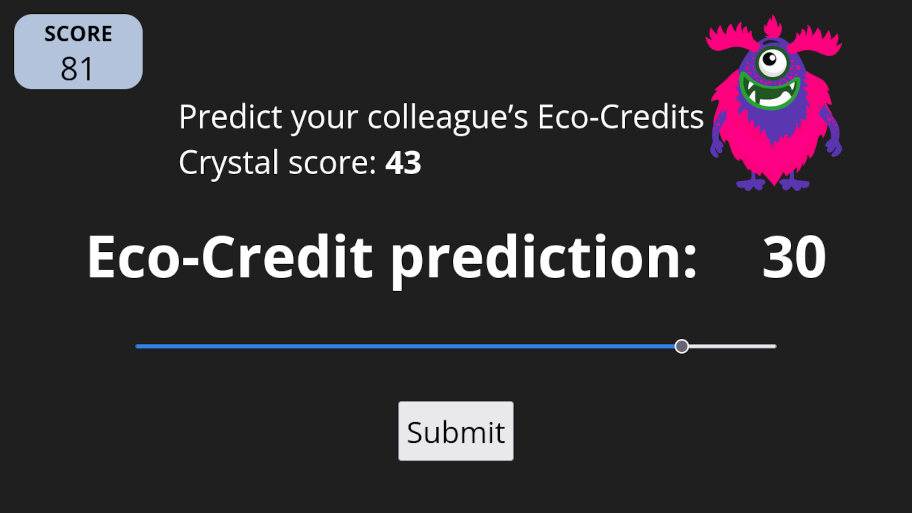
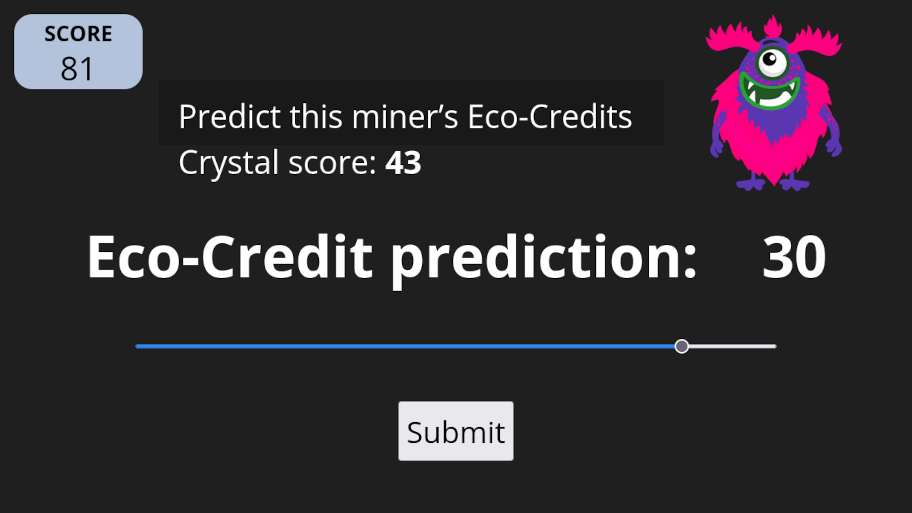
Completed predictor's task except for data reading

Changed region(s): [[0.2149, 0.1871, 0.7675, 0.2807]]

diff --git a/betting/index.html b/betting/index.html
@@ -31,8 +31,8 @@
   </div>
   <ol id="tutorial-instructions" class="instructions">
     <li class="expscreen">
-      <p><strong>IMPORTANT:</strong> To quit the experiment, press ESC. If you quit the experiment before it’s over, you
-        won’t get paid, so be careful.</p>
+      <p><strong>IMPORTANT:</strong> To quit the experiment, press ESC. If you quit the experiment before it’s over, we will lose your data,
+        so be careful.</p>
       <p>Thank you for participating in this experiment about how people make decisions. You’ll help with
         our research and get a score depending on your performance. If you pay attention and do your
         best, you’ll get a much higher score.</p>
@@ -136,40 +136,20 @@
   <ol id="game-instructions" class="instructions">
     <li class="expscreen">
       <p>You have finished the quiz. Well done! Next, you’ll play the game for <span class="constant NUM_TRIALS"></span> rounds.
-        Each round corresponds to a
-        working day in the game storyline. At the beginning of each round, you’ll fly to planet Zyxlon.
-        This will happen automatically. You don’t have to do anything.</p>
-      <img src="/crystalmining/betting/img/sky_planet.png" width="912" height="513" alt="" class="instructions_illustration">
-      <img src="/crystalmining/betting/img/spaceship_flying.png" width="912" height="513" alt="" class="instructions_illustration">
-    </li>
-    <li class="expscreen">
-      <p>Then you will choose whether to collect or discard five crystals, just like you practised earlier. Before you
-        choose to collect or discard the fifth crystal, you’ll be asked to predict your Eco-Credits.</p>
-      <img src="/crystalmining/betting/img/own_prediction.png" width="912" height="513" alt="" class="instructions_illustration">
-    </li>
-    <li class="expscreen">
-      <p>Use the information on the fifth crystal to determine your final crystal score for the day if you choose to collect or discard it, as this final score affects the Eco-Credits you’ll receive.</p>
-      <img src="/crystalmining/betting/img/own_prediction.png" width="912" height="513" alt="" class="instructions_illustration">
-    </li>
-    <li class="expscreen">
-      <p>Predicting your Eco-Credits is a required part of the study, and you can also earn up to 10 points for your prediction, so put your best guess forward.</p>
-      <img src="/crystalmining/betting/img/own_prediction_results.png" width="912" height="513" alt="" class="instructions_illustration">
-    </li>
-    <li class="expscreen">
-      <p>Afterwards, you’ll find out how many Eco-Credits the Auditor has decided to give you.</p>
-      <img src="/crystalmining/betting/img/ecocrd.png" width="912" height="513" alt="" class="instructions_illustration">
-    </li>
-    <li class="expscreen">
-      <p>Next, you can earn up to 10 points for predicting a colleague’s Eco-Credits based on their crystal
-        collection. This is also a required part of the study.</p>
+        Each round corresponds to an Eco-Credits prediction</p>
+        <img src="/crystalmining/betting/img/colleague_prediction.png" width="912" height="513" alt="" class="instructions_illustration">
+      </li>
+      <li class="expscreen">
+      <p>You can earn up to 10 points for predicting a miner’s Eco-Credits based on their crystal
+        score.</p>
         <img src="/crystalmining/betting/img/colleague_prediction.png" width="912" height="513" alt="" class="instructions_illustration">
     </li>
     <li class="expscreen">
-      <p>Remember that, in general, the more crystal points you collect, the fewer Eco-Credits you will receive.</p>
+      <p>Remember that, in general, the more crystal points a miner collects, the fewer Eco-Credits they will receive.</p>
       <img src="/crystalmining/betting/img/auditor.png" width="912" height="513" alt="" class="instructions_illustration">
     </li>
     <li class="expscreen">
-      <p>However, remember that the Auditor can be somewhat unpredictable and might increase or decrease your Eco-Credits for unexplained reasons.</p>
+      <p>However, remember that the Auditor can be somewhat unpredictable and might increase or decrease a miner’s Eco-Credits for unexplained reasons.</p>
       <img src="/crystalmining/betting/img/auditor.png" width="912" height="513" alt="" class="instructions_illustration">
     </li>
     <li class="expscreen">

diff --git a/betting/task.js b/betting/task.js
@@ -6,7 +6,7 @@ const CRYSTAL_CAT = [10,  25, 40, 55, 70];
 const TUTORIAL_TRIALS = 2;
 const INIT_TUTORIAL_SCORE = 1000;
 const ECOCRD_NOISE = 10.;
-const NUM_TRIALS = 50;
+const NUM_TRIALS = 100;
 const POINT_VALUE = (BASE_PAYMENT + MAX_BONUS) / 10802; // The max number of points (without considering luck) is around this number
 const URLPARAMS = new URLSearchParams(window.location.search);
 const PROLIFIC_PID = URLPARAMS.get("PROLIFIC_PID");
@@ -152,13 +152,13 @@ function start_experiment() {
     document.querySelector("#ethics").remove();
     document.body.className = "running";
     
-    // run_instructions(
-    //     null,
-    //     document.querySelector("#tutorial-instructions"),
-    //     function(last_page) {
-    //         run_tutorial(last_page);
-    //     });
-    run_tutorial(null);
+    run_instructions(
+        null,
+        document.querySelector("#tutorial-instructions"),
+        function(last_page) {
+            run_tutorial(last_page);
+        });
+    // run_tutorial(null);
     // run_quiz(null);
     // run_trials(null, false, show_feedback);
     // show_feedback(100);
